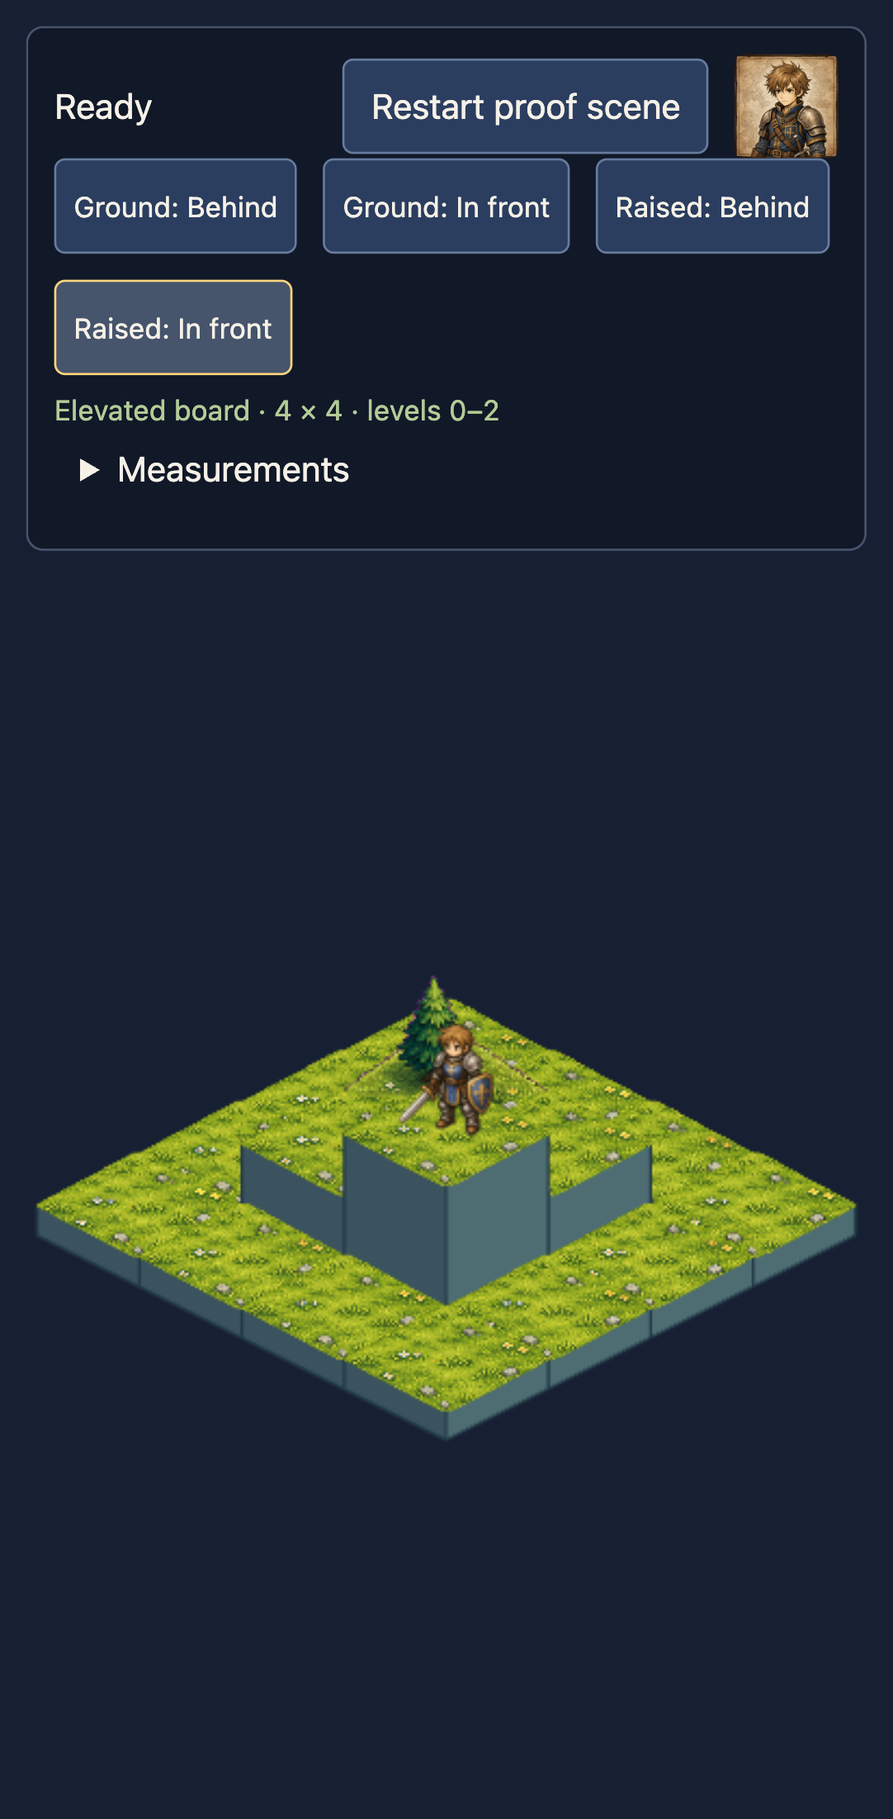
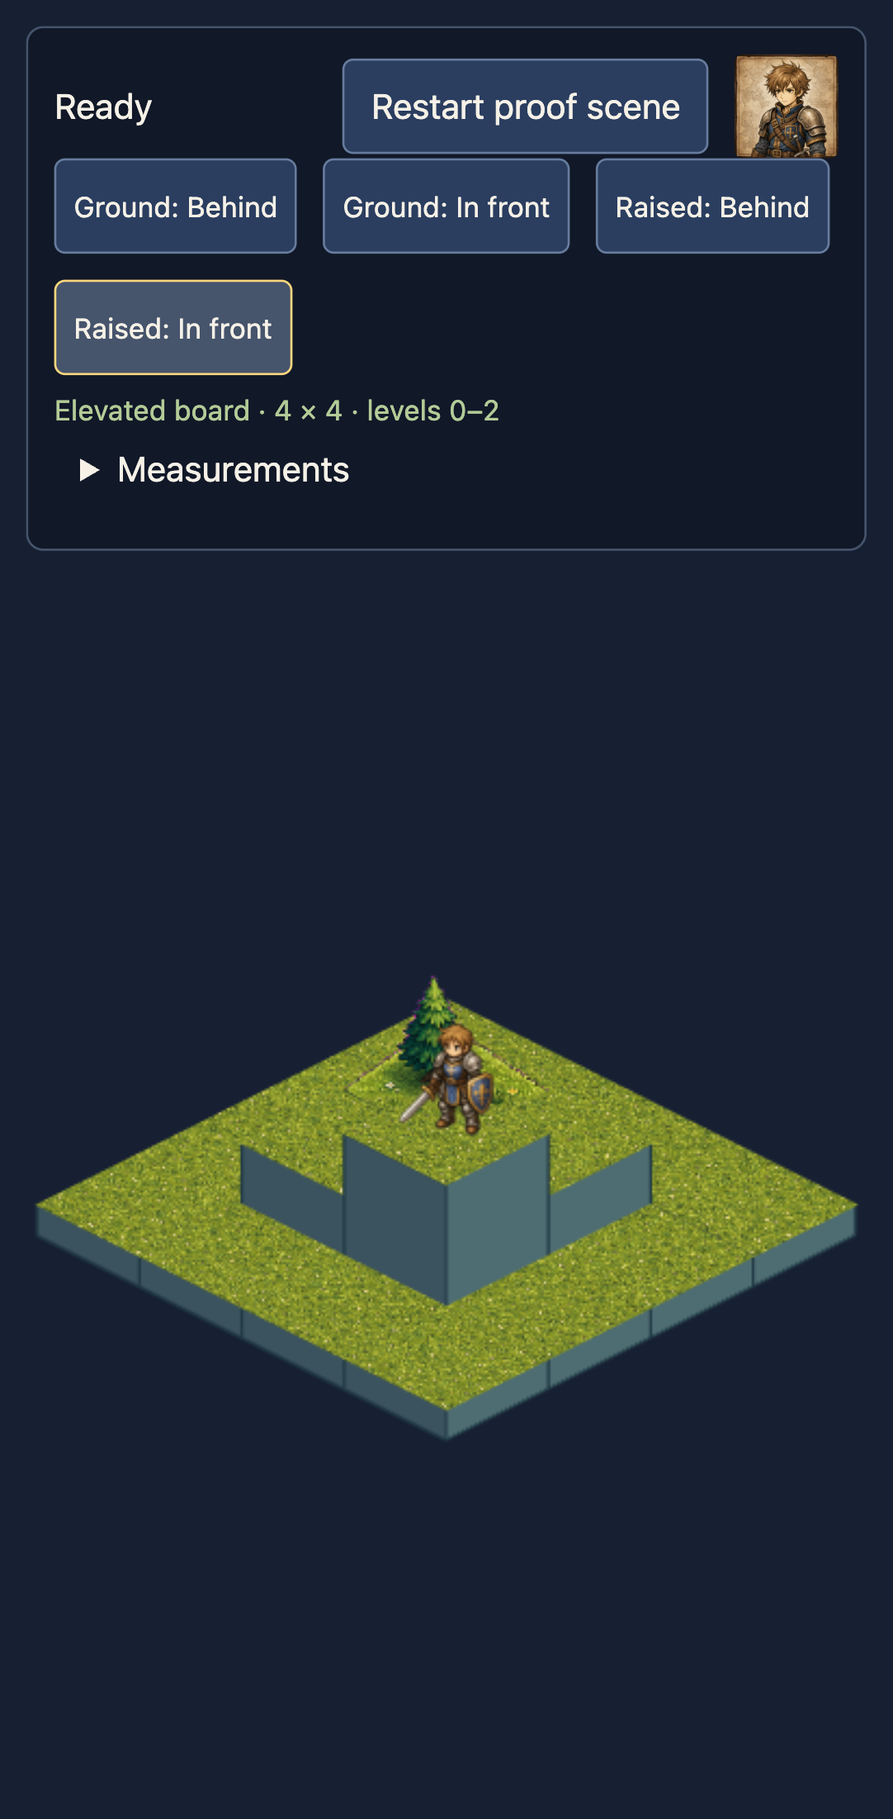
feat: project fresh grass material through exact tile geometry

Changed region(s): [[0.061, 0.5559, 0.9455, 0.772]]

diff --git a/src/phaser/BoardRenderer.ts b/src/phaser/BoardRenderer.ts
@@ -2,20 +2,20 @@ import Phaser from 'phaser';
 import { BOARD_FIXTURE } from '../diagnostics/boardFixture';
 import { PROOF_ASSETS, PROOF_ART, PROOF_FIXTURES, proofDepth, type ProofFixture } from '../diagnostics/proofAssets';
 import { setProofDiagnostics, type BoardDiagnostics } from '../diagnostics/browser';
-import { boardBounds, fitBoard, orderTiles, projectTile, tileFaces, type Point, type Bounds, TILE_WIDTH } from '../geometry/iso';
+import { boardBounds, fitBoard, orderTiles, projectTile, tileFaces, type Point, type Bounds, type Tile, TILE_WIDTH, TILE_HEIGHT } from '../geometry/iso';
 
 export class BoardRenderer {
   private readonly root: Phaser.GameObjects.Container;
   private readonly hero: Phaser.GameObjects.Image;
   private readonly prop: Phaser.GameObjects.Image;
   private readonly bounds: Bounds;
+  private fixture: ProofFixture = 'ground-behind';
+  private readonly surfaces: { tile: Tile; image: Phaser.GameObjects.Image }[] = [];
   private readonly surfaceMasks: Phaser.GameObjects.Graphics[] = [];
 
   constructor(scene: Phaser.Scene) {
     this.root = scene.add.container();
-    const frame = PROOF_ART.grass.frame;
-    const surfaceScale = (TILE_WIDTH + PROOF_ART.grass.horizontalBleed * 2) / frame.width;
-    if (!scene.textures.get('grass').has('surface')) scene.textures.get('grass').add('surface', 0, frame.x, frame.y, frame.width, frame.height);
+    const surfaceSide = (TILE_WIDTH + PROOF_ART.grass.horizontalBleed * 2) / Math.SQRT2;
     const drawFace = (graphics: Phaser.GameObjects.Graphics, points: readonly Point[], color: number): void => {
       const vertices = points.map(point => new Phaser.Math.Vector2(point.x, point.y));
       graphics.fillStyle(color, 1).fillPoints(vertices, true);
@@ -28,15 +28,18 @@ export class BoardRenderer {
       drawFace(graphics, faces.right, 0x4e6d72);
       drawFace(graphics, faces.top, 0x638b82);
       const point = projectTile(tile);
-      const grass = scene.add.image(point.x, point.y, 'grass', 'surface')
-        .setOrigin(0.5).setScale(surfaceScale)
-        .setDepth(proofDepth(tile, 1));
-      // Uniform scaling plus a small bleed fills the diamond; the mask clips excess coverage.
+      const surface = scene.add.container(point.x, point.y)
+        .setScale(1, TILE_HEIGHT / TILE_WIDTH).setDepth(proofDepth(tile, 1));
+      const grass = scene.add.image(0, 0, 'grass').setOrigin(0.5)
+        .setDisplaySize(surfaceSide, surfaceSide).setRotation(Math.PI / 4);
+      surface.add(grass);
+      this.surfaces.push({ tile, image: grass });
+      // Rotate a square by exactly 45 degrees, then squash vertically to the grid's 2:1 diamond.
       const mask = scene.add.graphics().setVisible(false);
       mask.fillStyle(0xffffff).fillPoints(faces.top.map(vertex => new Phaser.Math.Vector2(vertex.x, vertex.y)), true);
       grass.setMask(mask.createGeometryMask());
       this.surfaceMasks.push(mask);
-      this.root.add([graphics, grass]);
+      this.root.add([graphics, surface]);
     }
     this.prop = scene.add.image(0, 0, 'tree').setOrigin(0.5, PROOF_ART.tree.originY).setDisplaySize(PROOF_ART.tree.width, PROOF_ART.tree.height);
     this.hero = scene.add.image(0, 0, 'fighter').setOrigin(0.5, PROOF_ART.fighter.originY).setDisplaySize(PROOF_ART.fighter.width, PROOF_ART.fighter.height);
@@ -57,20 +60,45 @@ export class BoardRenderer {
   }
 
   showFixture(fixture: ProofFixture): void {
+    this.fixture = fixture;
     const value = PROOF_FIXTURES[fixture];
     const hero = projectTile(value.hero);
     const prop = projectTile(value.prop);
     this.hero.setPosition(hero.x + value.heroOffsetX, hero.y).setDepth(proofDepth(value.hero, 2));
     this.prop.setPosition(prop.x, prop.y).setDepth(proofDepth(value.prop, 2));
     this.root.sort('depth');
-    setProofDiagnostics({ fixture, relation: value.relation, propElevation: value.prop.elevation,
-      heroDepth: this.hero.depth, propDepth: this.prop.depth, assetCount: PROOF_ASSETS.length, objectCount: this.root.length + 1 + this.surfaceMasks.length });
+    this.publishDiagnostics();
+  }
+
+  private publishDiagnostics(): void {
+    const value = PROOF_FIXTURES[this.fixture];
+    const rootMatrix = this.root.getWorldTransformMatrix();
+    const bleedScale = (TILE_WIDTH + PROOF_ART.grass.horizontalBleed * 2) / TILE_WIDTH;
+    const errors = this.surfaces.flatMap(({ tile, image }) => {
+      const halfWidth = image.width / 2 / bleedScale;
+      const halfHeight = image.height / 2 / bleedScale;
+      const corners = [
+        { x: -halfWidth, y: -halfHeight }, { x: halfWidth, y: -halfHeight },
+        { x: halfWidth, y: halfHeight }, { x: -halfWidth, y: halfHeight },
+      ];
+      const matrix = image.getWorldTransformMatrix();
+      return tileFaces(tile).top.map((point, index) => {
+        const expected = rootMatrix.transformPoint(point.x, point.y);
+        const actual = matrix.transformPoint(corners[index].x, corners[index].y);
+        return Math.hypot(expected.x - actual.x, expected.y - actual.y);
+      });
+    });
+    setProofDiagnostics({ fixture: this.fixture, relation: value.relation, propElevation: value.prop.elevation,
+      heroDepth: this.hero.depth, propDepth: this.prop.depth, assetCount: PROOF_ASSETS.length,
+      surfaceCornerError: Math.max(...errors),
+      objectCount: this.root.length + 1 + this.surfaceMasks.length + this.surfaces.length });
   }
 
   fit(width: number, height: number, panelBottom: number): BoardDiagnostics {
     const layout = fitBoard(this.bounds, { width, height }, panelBottom);
     this.root.setPosition(layout.x, layout.y).setScale(layout.scale);
     for (const mask of this.surfaceMasks) mask.setPosition(layout.x, layout.y).setScale(layout.scale);
+    this.publishDiagnostics();
     return {
       tileCount: BOARD_FIXTURE.length,
       elevations: [...new Set(BOARD_FIXTURE.map(tile => tile.elevation))].sort(),

diff --git a/tests/grass-surface.spec.ts b/tests/grass-surface.spec.ts
@@ -1,15 +1,11 @@
 import { expect, test } from '@playwright/test';
-import { PROOF_ART } from '../src/diagnostics/proofAssets';
-import { TILE_WIDTH, TILE_HEIGHT } from '../src/geometry/iso';
 
-test('grass uses a 2:1 frame and opaque coverage throughout each tile diamond', async ({ page }) => {
+test('square grass material projects all corners exactly onto the shared tile geometry', async ({ page }) => {
   await page.goto('/');
   await expect(page.getByRole('status')).toHaveText('Ready');
-  const frame = PROOF_ART.grass.frame;
-  expect.soft(frame.width / frame.height).toBe(TILE_WIDTH / TILE_HEIGHT);
-  const uncovered = await page.evaluate(async ({ frame, width, height, bleed }) => {
+  const asset = await page.evaluate(async () => {
     const image = new Image();
-    image.src = '/proof/grass-surface.png';
+    image.src = '/proof/grass-material-v1.png';
     await image.decode();
     const canvas = document.createElement('canvas');
     canvas.width = image.naturalWidth;
@@ -17,20 +13,19 @@ test('grass uses a 2:1 frame and opaque coverage throughout each tile diamond', 
     const context = canvas.getContext('2d', { willReadFrequently: true })!;
     context.drawImage(image, 0, 0);
     const pixels = context.getImageData(0, 0, canvas.width, canvas.height).data;
-    // One logical pixel of bleed on either horizontal side; exact geometry clips it.
-    const displayWidth = width + bleed * 2;
-    const displayHeight = displayWidth * height / width;
-    const missing: { x: number; y: number; alpha: number }[] = [];
-    for (let y = -height / 2; y <= height / 2; y++) {
-      for (let x = -width / 2; x <= width / 2; x++) {
-        if (Math.abs(x) / (width / 2) + Math.abs(y) / (height / 2) > 1) continue;
-        const sourceX = Math.round(frame.x + frame.width / 2 + x * frame.width / displayWidth);
-        const sourceY = Math.round(frame.y + frame.height / 2 + y * frame.height / displayHeight);
-        const alpha = pixels[(sourceY * canvas.width + sourceX) * 4 + 3];
-        if (alpha < 250) missing.push({ x, y, alpha });
+    let transparentSamples = 0;
+    for (let y = 0; y < canvas.height; y += 16) {
+      for (let x = 0; x < canvas.width; x += 16) {
+        if (pixels[(y * canvas.width + x) * 4 + 3] !== 255) transparentSamples++;
       }
     }
-    return missing;
-  }, { frame, width: TILE_WIDTH, height: TILE_HEIGHT, bleed: PROOF_ART.grass.horizontalBleed });
-  expect(uncovered.length, JSON.stringify(uncovered.slice(0, 5))).toBe(0);
+    return { width: canvas.width, height: canvas.height, transparentSamples };
+  });
+  expect(asset.width).toBe(asset.height);
+  expect(asset.transparentSamples).toBe(0);
+  // Phaser stores transform matrices as float32; 0.001 CSS pixel allows rounding, not visible drift.
+  for (const viewport of [{ width: 390, height: 844 }, { width: 844, height: 390 }]) {
+    await page.setViewportSize(viewport);
+    await expect.poll(() => page.evaluate(() => window.fitDiagnostics().proof?.surfaceCornerError)).toBeLessThan(0.001);
+  }
 });

diff --git a/src/diagnostics/proofAssets.ts b/src/diagnostics/proofAssets.ts
@@ -1,14 +1,14 @@
 import { BOARD_SIZE } from './boardFixture';
 // Selected diagnostic assets only; provenance and anchors: docs/qa/issue-16-assets.md.
 export const PROOF_ASSETS = [
-  { key: 'grass', url: '/proof/grass-surface.png' },
+  { key: 'grass', url: '/proof/grass-material-v1.png' },
   { key: 'tree', url: '/proof/tree.png' },
   { key: 'fighter', url: '/proof/fighter.png' },
   { key: 'fighter-portrait', url: '/proof/fighter-portrait.png' },
 ] as const;
 export const PROOF_ART = {
-  // A 2:1 interior frame excludes alpha specks; one-pixel horizontal bleed covers the mask edges.
-  grass: { frame: { x: 130, y: 62, width: 1510, height: 755 }, horizontalBleed: 1 },
+  // Fresh square material: the renderer supplies all isometric geometry.
+  grass: { horizontalBleed: 1 },
   tree: { width: 80, height: 110, originY: 170 / 352 },
   fighter: { width: 40, height: 50, originY: 76 / 80 },
 } as const;

diff --git a/src/diagnostics/browser.ts b/src/diagnostics/browser.ts
@@ -6,7 +6,7 @@ export interface BoardDiagnostics {
   scale: number;
   bounds: { left: number; top: number; right: number; bottom: number };
 }
-export interface ProofDiagnostics { fixture: string; relation: 'behind' | 'front'; propElevation: number; heroDepth: number; propDepth: number; assetCount: number; objectCount: number; }
+export interface ProofDiagnostics { fixture: string; relation: 'behind' | 'front'; propElevation: number; heroDepth: number; propDepth: number; assetCount: number; objectCount: number; surfaceCornerError: number | null; }
 let proof: ProofDiagnostics | null = null;
 export function setProofDiagnostics(value: ProofDiagnostics | null): void { proof = value; }
 let board: BoardDiagnostics | null = null;

diff --git a/tests/assets.spec.ts b/tests/assets.spec.ts
@@ -23,7 +23,7 @@ test('canonical assets, near/far fixtures and restart remain stable', async ({ p
     await expect(page.getByRole('status')).toHaveText('Ready');
     await expect(page.locator('#game')).toHaveAttribute('data-run', String(run));
     expect(await page.evaluate(() => window.fitDiagnostics().proof?.fixture)).toBe('ground-behind');
-    expect(await page.evaluate(() => window.fitDiagnostics().proof?.objectCount)).toBe(51);
+    expect(await page.evaluate(() => window.fitDiagnostics().proof?.objectCount)).toBe(67);
   }
   expect(errors).toEqual([]);
 });

diff --git a/docs/qa/issue-16-assets.md b/docs/qa/issue-16-assets.md
@@ -19,7 +19,7 @@ The source checkout was clean; each copied PNG was checked against the Git blob 
[2 lines of base64/hex data omitted]
 
-Original canonical PNG bytes: **3,388,616**. Current loaded PNG bytes, including the grass derivative: **4,436,206**. The unchanged portrait accounts for 3,285,110 bytes. This increment records that cost; #20 measures deployed cold/warm performance and sets budgets.
+Original canonical PNG bytes: **3,388,616**. Current loaded PNG bytes, including the fresh grass material: **6,323,069**. The unchanged portrait accounts for 3,285,110 bytes; fresh grass accounts for 2,980,361. #20 measures deployed cold/warm performance and sets budgets.
 
 ## License and provenance status
 
@@ -29,20 +29,20 @@ Fighter sprite first appears in source commit `d71a71d0376f4625d1e06d602f011e5b4
 
 ## Rendering and lifecycle
 
-The 4×4 diagnostic board retains generated side faces and uses a derived transparent grass surface. The renderer excludes noisy alpha bounds and uses a 1510×755 interior crop (exactly 2:1) with a centered anchor. Both image axes use the same scale, yielding 82×41 logical pixels. A one-pixel horizontal bleed is clipped to the shared 80×40 tile diamond. Per-tile diamond geometry masks prevent irregular alpha edges from spilling onto adjacent columns. Tree uses a base anchor and Fighter a foot anchor.
+The 4×4 diagnostic board retains generated side faces and uses a fresh, opaque square grass material after the user's explicit authorization to generate new assets. The texture has no baked perspective or tile silhouette. The renderer rotates a square by exactly π/4 inside a container with vertical scale TILE_HEIGHT/TILE_WIDTH (1/2). Its unexpanded projected corners are the same 80×40 diamond vertices used by side faces and tile projection. A one-pixel horizontal bleed is clipped by masks made from those vertices. Original canonical grass and the first transparent derivative remain archived and are not loaded. Tree uses its legacy base anchor and Fighter its foot anchor.
 
 Complete tile columns, surface art and occupants share stable grid-depth slots with the existing sum/y/x ordering. Elevation changes projected position, not depth priority. The fixed fixture buttons show one Fighter and one tree at a time. Ground fixtures use a tree at (2,0), elevation 0; raised fixtures use (1,1), elevation 1. The raised front Fighter stands on the existing elevation-2 tile at (2,2). Ground fixtures have ±28 logical-pixel foot offsets inside their tiles to make canopy overlap visible. They are diagnostic positions, not tactical moves.
 
 Layout fits the union of all fixtures and full image rectangles below the panel, including transparent padding. The portrait displays separately in the panel. The four selected runtime images load through Phaser; the DOM portrait uses the same cached URL because Phaser revokes its temporary loader blob URL. Controls wait for both a rendered frame and the decoded DOM portrait. A failed asset produces a visible error with reload instructions and disabled scene controls.
 
-Phaser owns the container and its 34 children (16 side/top graphics, 16 grass images, one tree and one hero), plus 16 scene-owned mask graphics: 51 objects in total; scene shutdown destroys them. Explicit shutdown removes fixture, portrait, resize, post-render and visibility listeners and disconnects the panel observer. Four cached textures are game-owned and reused across scene restarts. Restart returns to ground-behind and clears scene diagnostics.
+Phaser owns the container and its 34 children (16 side/top graphics, 16 surface containers, one tree and one hero), plus 16 nested grass images and 16 scene-owned mask graphics: 67 objects in total; scene shutdown destroys them. Explicit shutdown removes fixture, portrait, resize, post-render and visibility listeners and disconnects the panel observer. Four cached textures are game-owned and reused across scene restarts. Restart returns to ground-behind and clears scene diagnostics.
 
 ## Verification
 
 - RED-first: the two new desktop browser checks failed against the old scene: missing portrait and no controlled asset-load failure. The typed diagnostic contract was added before executing these behavior failures.
 - `npm run test:unit`: all 12 existing geometry/measurement tests passed.
 - `npm run build`: strict TypeScript check and production build passed; existing Phaser bundle-size warning remains.
-- `PLAYWRIGHT_CHROMIUM_EXECUTABLE='/Applications/Google Chrome.app/Contents/MacOS/Google Chrome' npm test`: all 24 checks passed across configured desktop and mobile-emulated portrait/landscape projects. New checks exercise actual fixture buttons, assert asset count/near-far depth/elevation, verify a decoded portrait, repeat restart three times, and abort the Fighter request to verify controlled errors. Existing checks cover complete board bounds, resize, readiness and lifecycle.
+- `PLAYWRIGHT_CHROMIUM_EXECUTABLE='/Applications/Google Chrome.app/Contents/MacOS/Google Chrome' npm test`: all 24 checks passed across configured desktop and mobile-emulated portrait/landscape projects. New checks exercise actual fixture buttons, assert asset count/near-far depth/elevation, verify a decoded portrait, repeat restart three times, abort the Fighter request to verify controlled errors, and compare all 64 grass corners from actual Phaser transform matrices with the shared grid vertices after resize in both orientations. Existing checks cover complete board bounds, resize, readiness and lifecycle.
 - `git diff --check`: passed.
 
 Representative screenshots are linked below. Visual review checks grass alignment, readable Fighter/portrait, visible near/far canopy overlap and complete-board framing. Physical iPhone/Android acceptance remains in #20; these Chromium screenshots are supporting evidence.
@@ -54,19 +54,34 @@ Representative screenshots are linked below. Visual review checks grass alignmen
 | raised-behind | [image](issue-16/desktop-raised-behind.png) | [image](issue-16/mobile-portrait-raised-behind.png) | [image](issue-16/mobile-landscape-raised-behind.png) |
 | raised-front | [image](issue-16/desktop-raised-front.png) | [image](issue-16/mobile-portrait-raised-front.png) | [image](issue-16/mobile-landscape-raised-front.png) |
 
-## Transparent grass derivative (user-requested follow-up)
+## Previous transparent grass derivative (archived experiment)
 
-`public/proof/grass-surface.png` is a built-in ImageGen edit of the original `art/tiles/grass_detailed_N.png`. The original remains byte-identical in `public/proof/grass.png` and in the read-only legacy checkout. The edit removes dirt walls, orange underside and opaque black bands. It has genuine RGBA transparency; inspection found no opaque pure-black pixels. Because ImageGen changes small texture details, this is an edited derivative rather than a pixel-exact crop of the canonical image.
+`public/proof/grass-surface.png` is an archived, unloaded built-in ImageGen edit of the original `art/tiles/grass_detailed_N.png`. The original remains byte-identical in `public/proof/grass.png` and in the read-only legacy checkout. The edit removes dirt walls, orange underside and opaque black bands. It has genuine RGBA transparency; inspection found no opaque pure-black pixels. Because ImageGen changes small texture details, this is an edited derivative rather than a pixel-exact crop of the canonical image.
 
 - PNG dimensions: 1774×887; alpha bounds: (71,20) to (1758,869).
 - Renderer frame: x=130, y=62, width=1510, height=755 (2:1); uniform scale: 82/1510; display before clipping: 82×41; masked visible diamond: 80×40; origin: center.
[1 lines of base64/hex data omitted]
 - Bytes: 1,093,498. The larger edited asset is recorded for subsequent loading measurements.
 - Method and final prompt: [grass-surface-prompt.md](issue-16/grass-surface-prompt.md).
-- Visual comparison confirms that the old black bands and detached grass lips are removed. All four fixtures are recaptured below using the new surface.
+- Visual comparison confirms that the old black bands and detached grass lips are removed. The screenshots in the table above now show the fresh material described below.
 
-## Aspect-ratio and coverage correction
+## Previous aspect-ratio and coverage correction
 
 The previous alpha bounding frame measured 1687×849 (1.987:1) and included transparent padding and edge specks. Its actual grass diamond did not fill that rectangle, leaving exposed top-face color. The corrected runtime crop is 1510×755 (exactly 2:1) at (130,62), chosen inside the solid grass. Uniform scaling and clipped bleed fill the whole visible diamond without skewing the texture. The PNG bytes remain unchanged.
 
-`tests/grass-surface.spec.ts` first failed against the old mapping on both aspect ratio and uncovered alpha samples. It now asserts exact 2:1 framing and inspects the real decoded PNG alpha at sampled pixel centers throughout the target diamond, including edges and vertices. All sampled points have alpha ≥250. Updated desktop/portrait/landscape screenshots show covered top faces; gray vertical faces are the authored elevation sides.
+A prior version of `tests/grass-surface.spec.ts` failed on aspect ratio and uncovered alpha samples, then passed after that crop correction. The current test replaces the image-boundary assumption with actual transformed-corner checks for the fresh square material. Gray vertical faces are the authored elevation sides.
+
+## Fresh material and exact corner projection (current)
+
+The user subsequently authorized fresh generated assets to resolve the perceived angle mismatch. `public/proof/grass-material-v1.png` was generated with built-in ImageGen as a square, direction-neutral top-down grass material. It has no isometric edges or padding. Its square-to-diamond projection is renderer geometry, not a guessed image boundary.
+
+- Dimensions: 1254×1254, RGB, completely opaque.
+- Bytes: 2,980,361.
[1 lines of base64/hex data omitted]
+- Method and exact final prompt: [grass-material-v1-prompt.md](issue-16/grass-material-v1-prompt.md).
+- Ownership/provenance: generated for this project at the user's request, with no reference image or externally sourced texture. The generation prompt is preserved; no third-party CC0 declaration is asserted.
+- Projection: square side (TILE_WIDTH + 2×bleed)/√2, image rotation π/4, parent Y scale TILE_HEIGHT/TILE_WIDTH. Remove the bleed when comparing projected corners with the shared tile-face vertices. No empirical rotation adjustment is applied.
+- Diagnostics expose maximum transformed-corner error. The browser check allows <0.001 CSS pixel for Phaser float32 matrix rounding; focused measurements observed about 0.000018 pixel, far below visible drift. All 64 corners are compared after resize.
+- RED-first corner check failed against the prior renderer's missing projection evidence. Existing geometry tests already verify adjacent equal-height tiles share identical vertices.
+
+The fresh texture and current fixture screenshots are a starting point for further visual iteration. The legacy tree/Fighter/portrait remain canonical; newly generated grass is explicitly user-authorized and does not claim to satisfy unchanged canonical-grass artwork requirements.

diff --git a/docs/qa/issue-16/grass-material-v1-prompt.md b/docs/qa/issue-16/grass-material-v1-prompt.md
@@ -1,0 +1,7 @@
+# Fresh top-down grass material
+
+Tool: built-in `image_gen`, transparent_background=false. Brand-new generation, no reference image. The user explicitly authorized fresh assets as a starting point for iteration. Square opaque material; isometric projection is applied by the renderer.
+
+Final prompt:
+
+> Use case: stylized-concept. Asset type: square seamless game ground texture, material only. Create a fresh stylized grass texture for a readable isometric tactics game. View strictly straight down, orthographic, no perspective. Fill every pixel of the square canvas with continuous green grass; opaque image with no padding or background. Fine short grass, restrained tiny tufts, a few tiny pale flowers and very small pebbles, evenly distributed; warm yellow-green and muted olive palette, gentle detail and no large focal object. Subtle hand-painted/pixel-art game texture feel. Lighting flat and direction-neutral. Seamlessly tileable on all four sides, edge colors and patterns match. IMPORTANT: no isometric diamond, no tile silhouette, no dirt walls, no borders, no outlines, no bevels, no shadows around edges, no angle or rotation baked into the image, no trees, no characters, no text. Geometry and the exact 2:1 isometric projection will be applied by code.
